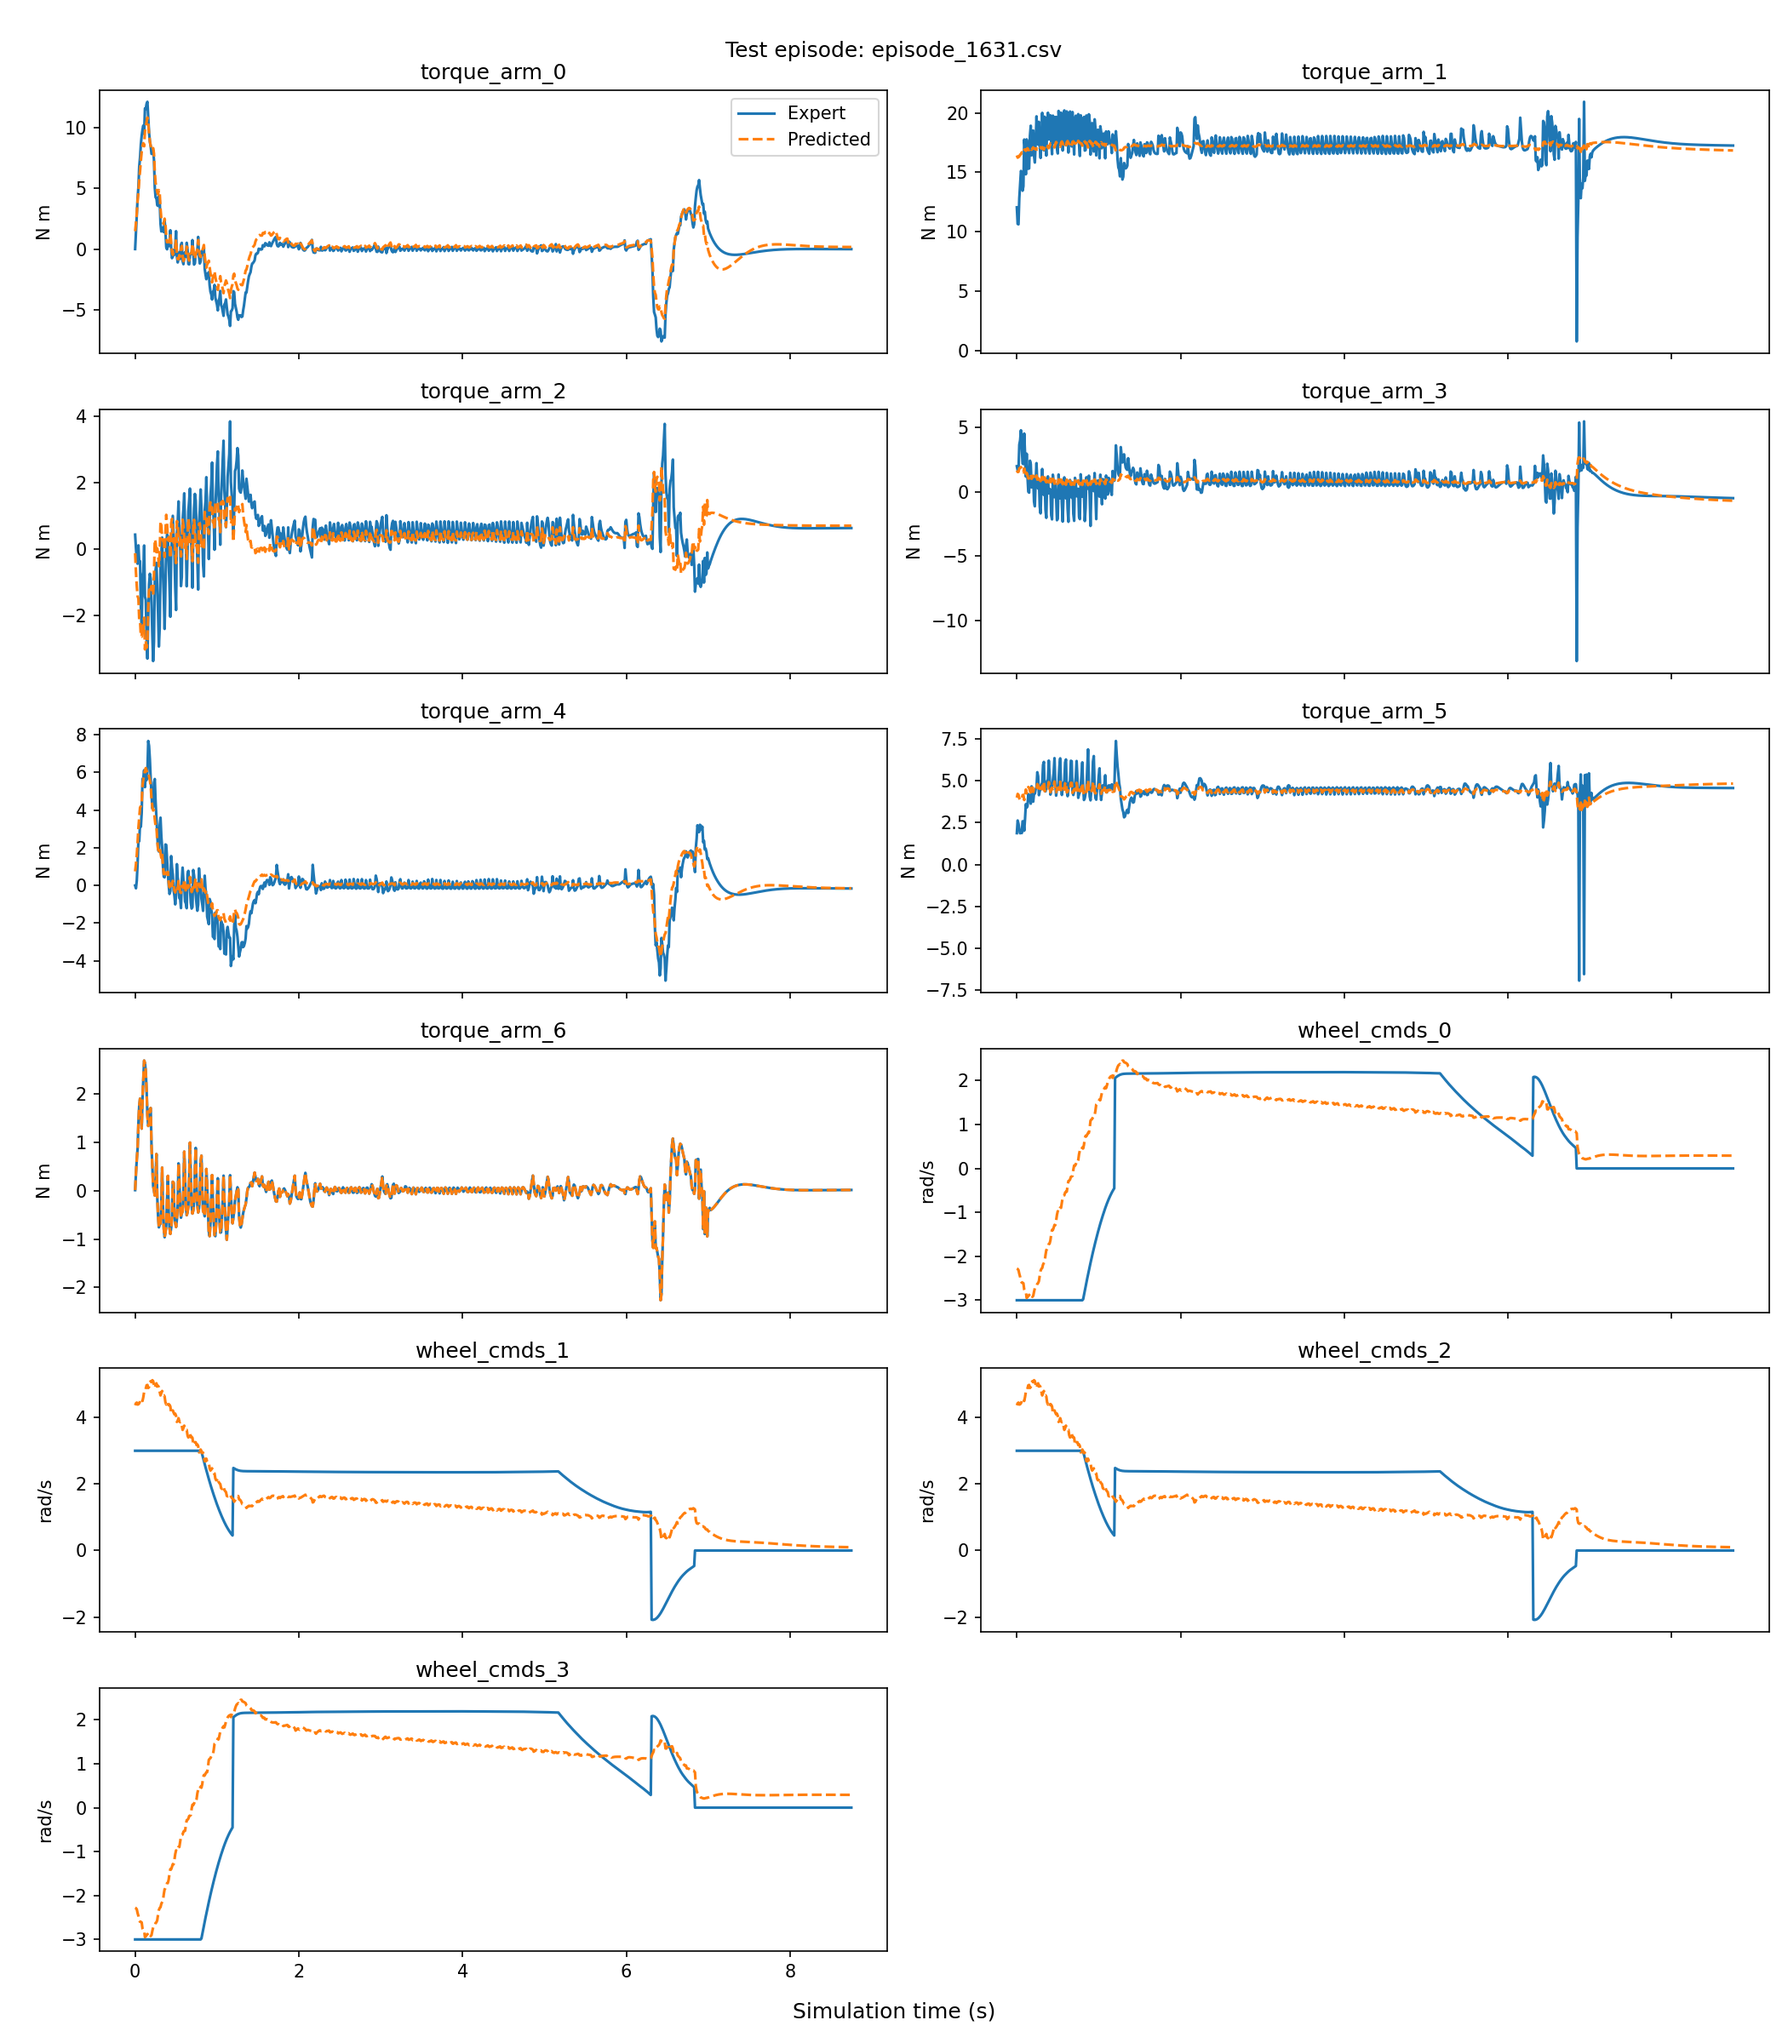
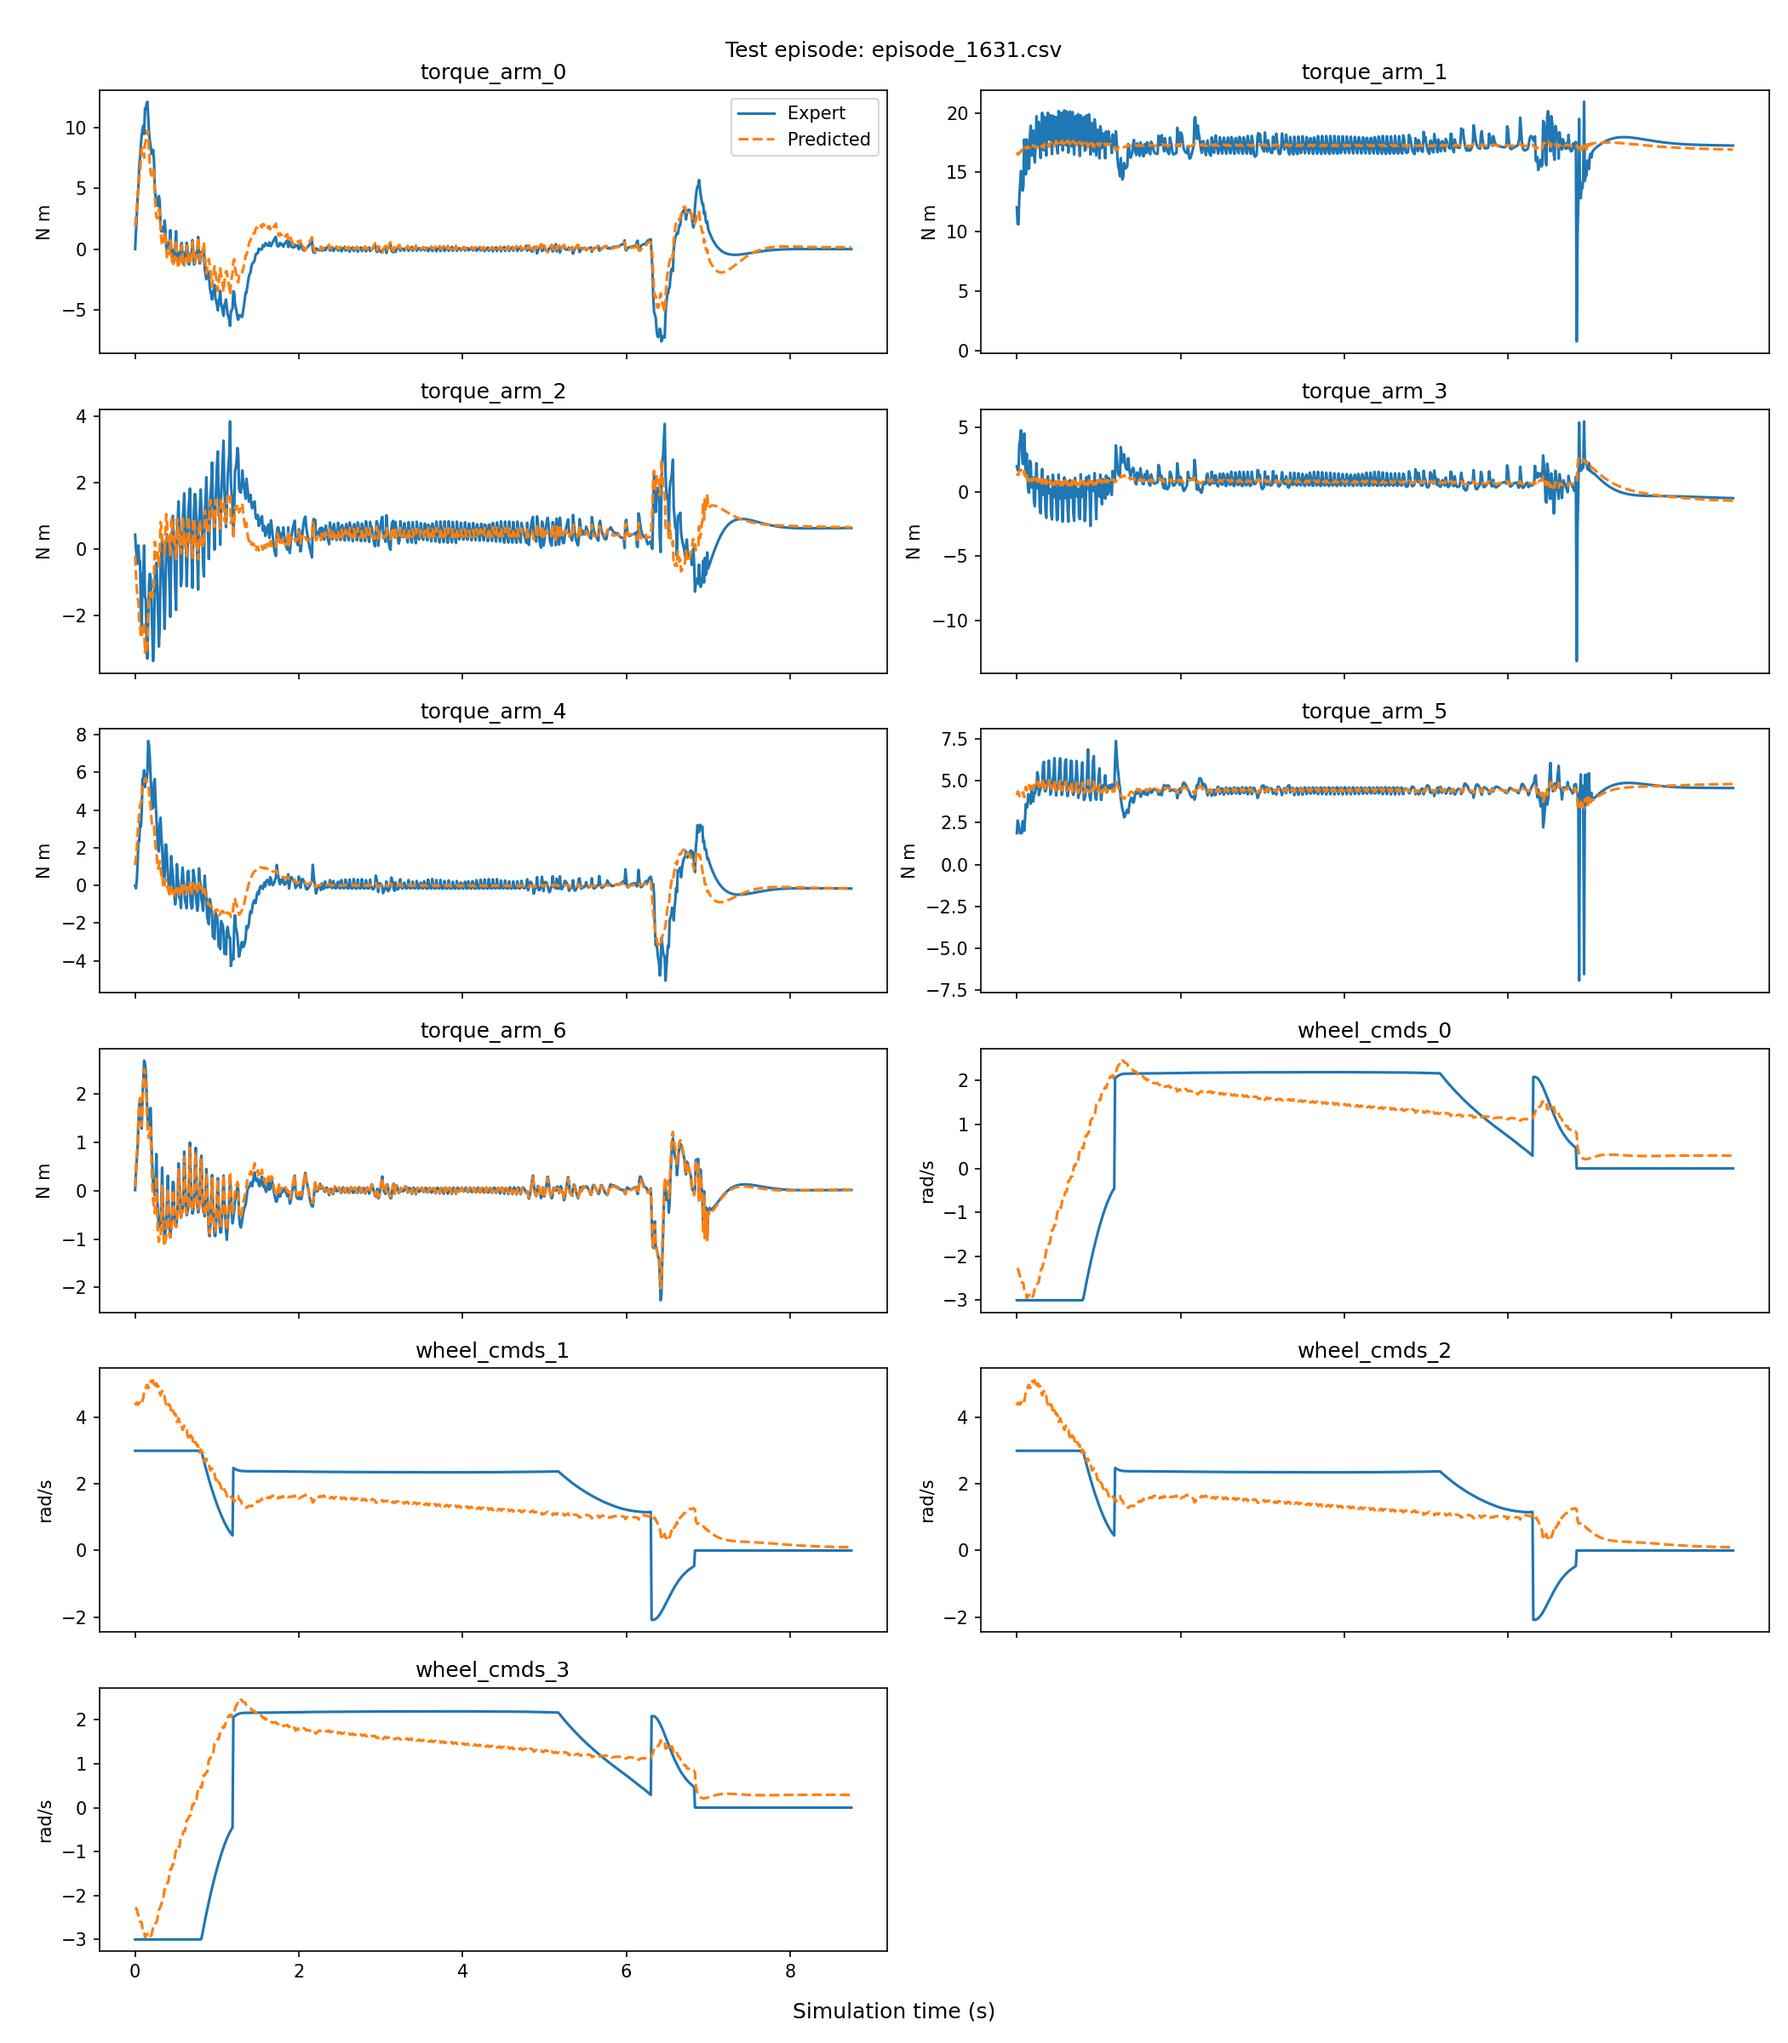
Update robot arm initialization parameters, refine linear regression training with regularization, and refresh metrics data and visualizations

diff --git a/robotnik_arm_task/train_linear_regression.py b/robotnik_arm_task/train_linear_regression.py
@@ -14,6 +14,7 @@ MODEL_PATH = Path(__file__).parent.parent / "trained_model" / "linear_regression
 RESULTS_DIR = Path(__file__).parent / "training_results"
 TEST_FRACTION = 0.2
 SEED = 42
+ARM_RIDGE_ALPHA = 0.001
 
 
 def load_data(files):
@@ -83,6 +84,13 @@ def main():
     del features
     y_train = train[OUTPUT_COLUMNS].to_numpy()
     weights = np.linalg.pinv(X_train) @ y_train
+    # Regularize arm coefficients; keep the wheel regression unchanged.
+    penalty = ARM_RIDGE_ALPHA * np.eye(X_train.shape[1])
+    penalty[0, 0] = 0  # Do not penalize the intercept.
+    weights[:, :7] = np.linalg.solve(
+        X_train.T @ X_train / len(train) + penalty,
+        X_train.T @ y_train[:, :7] / len(train),
+    )
 
     X_test = np.column_stack((np.ones(len(test)), (make_features(test) - input_mean) / input_scale))
     y_test = test[OUTPUT_COLUMNS].to_numpy()
@@ -113,6 +121,7 @@ def main():
         input_scale=input_scale,
         input_columns=INPUT_COLUMNS,
         output_columns=OUTPUT_COLUMNS,
+        arm_ridge_alpha=ARM_RIDGE_ALPHA,
         train_episodes=[file.name for file in train_files],
         test_episodes=[file.name for file in test_files],
     )
